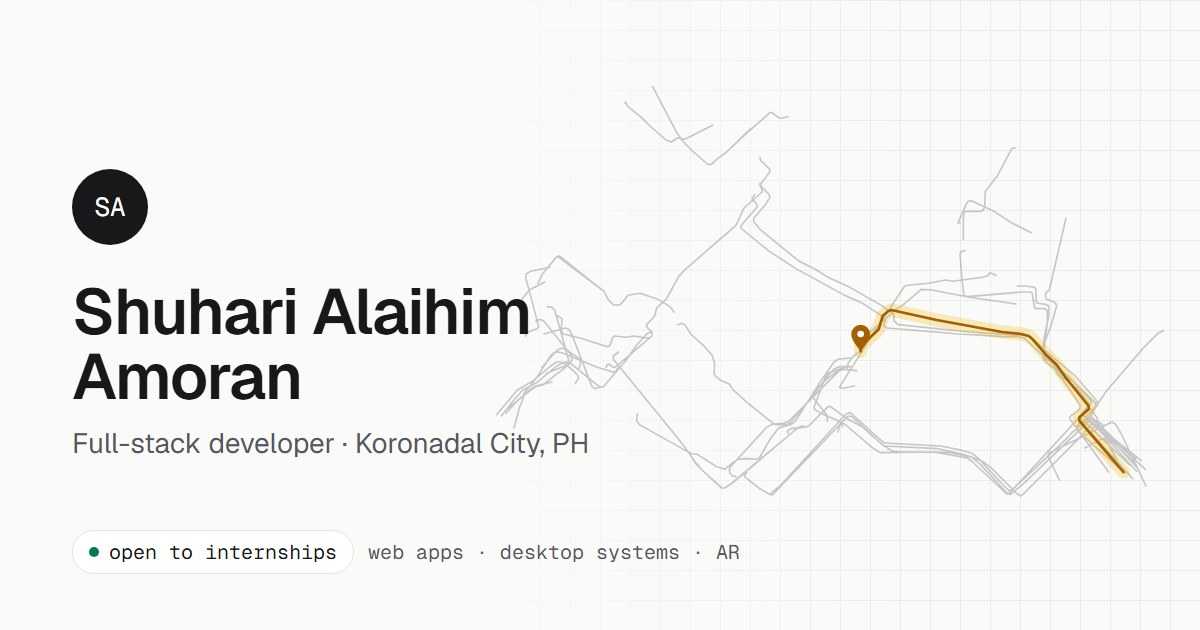
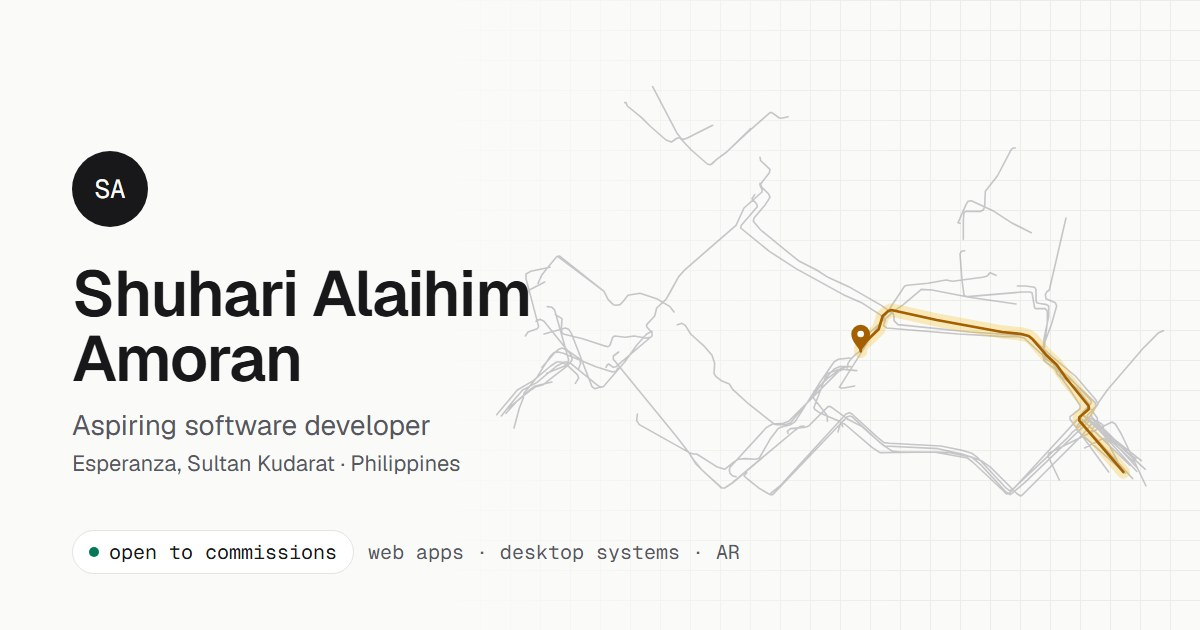
Aspiring software developer from Esperanza, open to commissions
- Role: "Full-Stack Developer" -> "Aspiring Software Developer"
  (hero, page title, About, meta description, preview image).
- Status: "Open to internships" -> "Open to commissions" (hero pill,
  About, facts, contact copy, the wayfinder's question and answer).
- Location: I live in Esperanza, Sultan Kudarat; Koronadal City is
  where I study. Hero, About, facts ("lives in"), the Now strip clock,
  "Where are you based?", meta description and og.jpg now say
  Esperanza. Koronadal stays on the NDMU entry and the AR walk, which
  point at the campus.

Kept: "Full-stack developer in a team of three" is my role on the
ExploreNDMU team.

diff --git a/portfolio/src/content.ts b/portfolio/src/content.ts
@@ -2,12 +2,13 @@
 
 export const profile = {
   name: 'Shuhari Alaihim Amoran',
-  role: 'Full-Stack Developer',
+  role: 'Aspiring Software Developer',
   tagline: 'I build things that work on screens, in 3D, and in the real world.',
   bio: 'IT student at Notre Dame of Marbel University. I build full-stack web apps and desktop systems, and with my capstone team I built an AR guide for our campus. I like owning a feature from the database to the last pixel.',
-  location: 'Koronadal City, Philippines',
+  /** Where you live. (School is in Koronadal City; that's on the education entry.) */
+  location: 'Esperanza, Sultan Kudarat, Philippines',
   /** Short availability line shown in the hero with a green dot. Empty hides it. */
-  status: 'Open to internships',
+  status: 'Open to commissions',
   /** A square photo in public/ (me.webp is cropped from the CV). Empty shows initials instead. */
   photo: 'me.webp',
   // Leave email, linkedin or facebook empty ('') to hide them on the page.
@@ -30,16 +31,16 @@ export const profile = {
 /** The About section. A draft from the CV and the repos: make it sound like you. */
 export const about = {
   paragraphs: [
-    "I'm Shuhari, an Information Technology student at Notre Dame of Marbel University in Koronadal City. I like the whole path of an app: the database tables, the API in the middle, and the screen someone actually taps.",
+    "I'm Shuhari, an aspiring software developer from Esperanza, Sultan Kudarat, studying Information Technology at Notre Dame of Marbel University in Koronadal City. I like the whole path of an app: the database tables, the API in the middle, and the screen someone actually taps.",
     'So far that has meant a payment portal where students pay their school fees through GCash, Maya or card, a point-of-sale system for the desktop in Java, and, with my capstone team, an AR guide that walks people across our campus.',
     "Outside class I've held a student-org role every year since 2023: batch representative and auditor for PSITS, and representative for the Muslim Students Organization.",
-    "Right now I'm looking for an internship where I can ship real features for real users, on the web or on mobile.",
+    "I'm open to commissions: if you need a web app, a desktop system or a tool for your school, organisation or business, I'd like to hear about it.",
   ],
   facts: [
     { k: 'studying', v: 'BS Information Technology, NDMU, 2023 to now' },
-    { k: 'based in', v: 'Koronadal City, Philippines (UTC+8)' },
+    { k: 'lives in', v: 'Esperanza, Sultan Kudarat (UTC+8)' },
     { k: 'builds', v: 'Web apps, desktop systems, mobile and AR' },
-    { k: 'looking for', v: 'An internship, web or mobile' },
+    { k: 'open to', v: 'Commissions: web apps and desktop systems' },
   ],
 }
 
@@ -259,7 +260,7 @@ export const leadership: Org[] = [
 
 export const now = {
   timeZone: 'Asia/Manila',
-  city: 'Koronadal',
+  city: 'Esperanza',
   learning: 'React Three Fiber shaders',
   /** What you're probably doing, by local hour. Each entry starts at `from` (0–23). */
   moods: [
@@ -278,14 +279,14 @@ export const now = {
 /** Canned answers. `keywords` help the search find them. Keep answers short and true. */
 export const answers = [
   {
-    q: 'Are you open to internships?',
-    keywords: 'job hire work intern available ojt',
-    a: `Yes. I'm a BS Information Technology student at Notre Dame of Marbel University, looking for internships in web, mobile or AR development. Email is the fastest way to reach me: ${profile.email}.`,
+    q: 'Are you open to commissions?',
+    keywords: 'hire freelance commission work project job available client',
+    a: `Yes. I take commissions for web apps, desktop systems and similar projects. Tell me what you need and when you need it; email is the fastest way to reach me: ${profile.email}.`,
   },
   {
     q: 'Where are you based?',
     keywords: 'location city country timezone',
-    a: 'Koronadal City, Philippines. That is UTC+8, the time in the strip at the top of the page.',
+    a: 'I live in Esperanza, Sultan Kudarat, and study at Notre Dame of Marbel University in Koronadal City. Both are on Philippine time (UTC+8), the clock in the strip at the top of the page.',
   },
   {
     q: 'What have you built?',

diff --git a/portfolio/index.html b/portfolio/index.html
@@ -6,8 +6,8 @@
     <link rel="apple-touch-icon" href="/apple-touch-icon.png" />
     <meta name="viewport" content="width=device-width, initial-scale=1.0" />
     <meta name="theme-color" content="#fafaf8" />
-    <meta name="description" content="Shuhari Alaihim Amoran, IT student and full-stack developer from Koronadal City, Philippines. Web apps, desktop systems and AR. Open to internships." />
-    <title>Shuhari Alaihim Amoran | Full-Stack Developer</title>
+    <meta name="description" content="Shuhari Alaihim Amoran, aspiring software developer from Esperanza, Sultan Kudarat, Philippines. Web apps, desktop systems and AR. Open to commissions." />
+    <title>Shuhari Alaihim Amoran | Aspiring Software Developer</title>
     <!-- Theme before first paint (no flash): the saved choice, else the system setting. -->
     <script>
       ;(function () {

diff --git a/portfolio/src/features/Wayfinder.tsx b/portfolio/src/features/Wayfinder.tsx
@@ -320,7 +320,7 @@ export default function Wayfinder() {
               </div>
             ) : (
               <div id={`${uid}-list`} role="listbox" aria-label="Destinations, actions and questions" className="max-h-[min(55vh,26rem)] overflow-y-auto p-2">
-                {shown.length === 0 && <p className="px-3 py-6 text-center text-sm text-muted">No match. Try “contact”, “cv” or “internship”.</p>}
+                {shown.length === 0 && <p className="px-3 py-6 text-center text-sm text-muted">No match. Try “contact”, “cv” or “commission”.</p>}
                 {GROUPS.map((g) => {
                   const group = shown.filter((it) => it.kind === g.kind)
                   if (!group.length) return null

diff --git a/portfolio/vite.config.ts b/portfolio/vite.config.ts
@@ -36,7 +36,7 @@ function socialMeta(): Plugin {
         meta('property', 'og:image', url('og.jpg')),
         meta('property', 'og:image:width', '1200'),
         meta('property', 'og:image:height', '630'),
-        meta('property', 'og:image:alt', 'Shuhari Alaihim Amoran, full-stack developer for web, mobile and AR, next to a map of campus walking routes with one route highlighted in gold'),
+        meta('property', 'og:image:alt', 'Shuhari Alaihim Amoran, aspiring software developer, next to a map of campus walking routes with one route highlighted in gold'),
         meta('name', 'twitter:card', 'summary_large_image'),
       ]
       if (site) {

diff --git a/portfolio/src/sections/Contact.tsx b/portfolio/src/sections/Contact.tsx
@@ -23,7 +23,7 @@ export default function Contact() {
       <Reveal>
         <p className="text-3xl font-semibold tracking-tight sm:text-4xl">say hello.</p>
         <p className="mt-3 max-w-lg leading-relaxed text-muted">
-          Internships, freelance work, a project that needs a map and a phone, or just a question about ExploreNDMU. I read everything.
+          Commissions, collaborations, or just a question about one of my projects. Tell me what you need and when; I read everything.
         </p>
       </Reveal>
       <Reveal className="mt-6">

diff --git a/portfolio/README.md b/portfolio/README.md
@@ -4,7 +4,7 @@ A calm, single-column portfolio with a light and dark theme, numbered sections, 
 
 - **Where to? (⌘K / Ctrl+K, or `/`)**: a command palette framed like ExploreNDMU's "Navigate here". Pick a section and the page walks you there with gold arrows and a metre countdown, then says "You have arrived". It also runs actions such as copying the email or opening the CV, and answers common questions.
 - **Walk to NDMU (AR)**: on a phone, the camera shows your floor with gold arrows on it, pointing at the real NDMU campus from wherever you are, with spoken turns. On campus it says "You have arrived".
-- **Now strip**: your local time in Koronadal with a guess at what you're doing, what you're learning, and your latest public GitHub push.
+- **Now strip**: your local time in Esperanza with a guess at what you're doing, what you're learning, and your latest public GitHub push.
 - **X-ray mode (X)**: outlines each part of the page with a note on how it's built, plus live numbers for what the page cost the browser.
 
 Built with Vite, React 19, TypeScript and Tailwind CSS v4. Beyond React it adds no UI kit and no animation library: it uses native `<dialog>`, CSS scroll-driven animations, SVG/SMIL and the View Transitions API.
